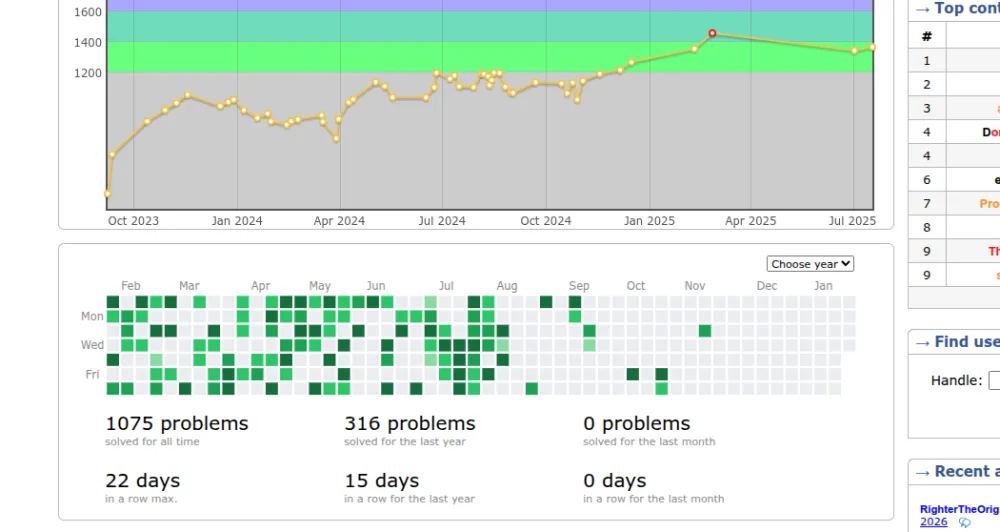
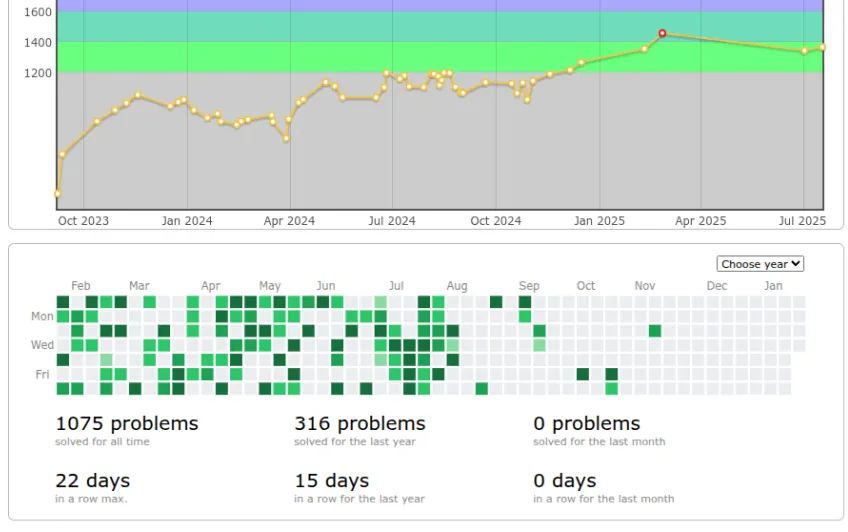
Surface GitHub activity and refine About page layout
Per-project commit counts were gated behind a hover media query, so they
never rendered on touch devices and needed a mouse on desktop. They are
now a permanent line under every project.

- Align featured card action rows on a shared baseline
- Frame every image so screenshots stop bleeding into either theme
- Make project titles the link; drop the duplicate cover tab stop
- Replace scattered scale hovers with one motion-safe hover language
- Left-align hero body copy on mobile and drop the section eyebrows
- Separate the secondary project list with rules under a group heading
- Centre the contribution graph and crop UI chrome from both screenshots
- Add themed ::selection and a site-wide :focus-visible ring

diff --git a/Frontend/src/Components/pages/About/About.jsx b/Frontend/src/Components/pages/About/About.jsx
@@ -53,8 +53,11 @@ function ProjectActivity({ activity }) {
     const commitLabel = activity.commits === 1 ? 'commit' : 'commits';
 
     return (
-        <p className="project-activity font-interface text-xs text-(--text-secondary)">
-            {activity.commits.toLocaleString()} authored {commitLabel}
+        <p className="project-activity font-interface mt-2 text-xs leading-relaxed tracking-wide text-(--text-secondary) tabular-nums">
+            <span className="font-semibold text-(--text-primary)">
+                {activity.commits.toLocaleString()}
+            </span>{' '}
+            authored {commitLabel}
             {lastActivity && <> · last activity {lastActivity}</>}
         </p>
     );
@@ -62,23 +65,30 @@ function ProjectActivity({ activity }) {
 
 function ProjectDetails({ project, activity }) {
     return (
-        <div>
-            <h3 className="text-xl font-bold leading-tight">
-                {project.name}
+        <div className="flex grow flex-col">
+            <h3 className="text-xl font-bold leading-tight text-pretty">
+                <a
+                    href={project.live ?? project.repo}
+                    target="_blank"
+                    rel="noopener noreferrer"
+                    className="transition-colors group-hover:text-(--accent)"
+                >
+                    {project.name}
+                </a>
                 {project.teamNote && (
                     <span className="font-interface ml-2 text-sm font-normal text-(--text-secondary)">
                         — {project.teamNote}
                     </span>
                 )}
             </h3>
-            <p className="mt-2 leading-relaxed text-(--text-secondary)">{project.tagline}</p>
+            <p className="mt-2 leading-relaxed text-pretty text-(--text-secondary)">{project.tagline}</p>
             <p className="font-interface mt-3 text-xs leading-relaxed tracking-wide text-(--text-secondary)">
                 {project.stack.join(' · ')}
             </p>
-            <div className="mt-3">
+            <ProjectActivity activity={activity} />
+            <div className="mt-auto pt-4">
                 <ProjectLinks project={project} />
             </div>
-            <ProjectActivity activity={activity} />
         </div>
     );
 }
@@ -136,24 +146,21 @@ export default function About() {
                         />
                     </div>
 
-                    <div className="max-w-2xl text-center md:text-left">
-                        <p className="font-interface mb-3 text-sm font-semibold uppercase tracking-[0.18em] text-(--text-primary)">
-                            About
-                        </p>
-                        <h1 id="about-heading" className="text-4xl font-bold leading-tight sm:text-5xl">
+                    <div className="w-full max-w-2xl">
+                        <h1 id="about-heading" className="text-4xl font-bold leading-tight text-balance sm:text-5xl">
                             Hi, I’m <span className="text-(--accent)">Mowafak</span>.
                         </h1>
-                        <p className="mt-6 text-lg leading-relaxed text-(--text-secondary)">
+                        <p className="mt-6 text-lg leading-relaxed text-pretty text-(--text-secondary)">
                             I built this blog to document my journey in software engineering. I completed{' '}
                             <span className="font-semibold text-(--text-primary)">The Odin Project</span> curriculum,
                             where I created more than 20 full-stack projects. I recently joined{' '}
                             <span className="font-semibold text-(--text-primary)">SYNC</span>, and I’m currently working
                             with its software engineering team.
                         </p>
-                        <p className="mt-4 text-lg leading-relaxed text-(--text-secondary)">
+                        <p className="mt-4 text-lg leading-relaxed text-pretty text-(--text-secondary)">
                             I work with React, TypeScript, and Python, with a focus on practical AI integrations.
                         </p>
-                        <p className="mt-4 text-lg leading-relaxed text-(--text-secondary)">
+                        <p className="mt-4 text-lg leading-relaxed text-pretty text-(--text-secondary)">
                             I love problem-solving! I reached{' '}
                             <strong className="codeforces-rank">Specialist</strong> on Codeforces and participated
                             in the ECPC programming contest (solving 6/13 problems). I am currently pursuing the
@@ -170,25 +177,26 @@ export default function About() {
 
                 <div className="grid grid-cols-1 gap-x-7 gap-y-14 sm:grid-cols-2 lg:grid-cols-3">
                     {featuredProjects.map((project) => (
-                        <article
-                            key={project.slug}
-                            className="project-entry relative transition-transform duration-300 hover:scale-[1.02]"
-                        >
-                            <a
-                                href={project.live}
-                                target="_blank"
-                                rel="noopener noreferrer"
-                                aria-label={`Open ${project.name}`}
-                            >
-                                <img
-                                    src={project.cover}
-                                    alt={project.coverAlt}
-                                    width={project.coverWidth}
-                                    height={project.coverHeight}
-                                    className="aspect-video w-full rounded-lg object-cover"
-                                />
-                            </a>
-                            <div className="mt-5">
+                        <article key={project.slug} className="group flex flex-col">
+                            <div className="overflow-hidden rounded-lg border border-(--border-color) transition-colors duration-300 group-hover:border-(--accent)">
+                                <a
+                                    href={project.live}
+                                    target="_blank"
+                                    rel="noopener noreferrer"
+                                    tabIndex={-1}
+                                    aria-hidden="true"
+                                    className="block"
+                                >
+                                    <img
+                                        src={project.cover}
+                                        alt={project.coverAlt}
+                                        width={project.coverWidth}
+                                        height={project.coverHeight}
+                                        className="aspect-video w-full object-cover motion-safe:transition-transform motion-safe:duration-500 group-hover:scale-[1.03] group-focus-within:scale-[1.03]"
+                                    />
+                                </a>
+                            </div>
+                            <div className="mt-5 flex grow flex-col">
                                 <ProjectDetails
                                     project={project}
                                     activity={activityBySlug.get(project.slug)}
@@ -198,30 +206,36 @@ export default function About() {
                     ))}
                 </div>
 
-                <div className="mt-16 max-w-3xl space-y-9 sm:mt-20">
-                    {listedProjects.map((project) => (
-                        <article
-                            key={project.slug}
-                            className="project-entry relative transition-transform duration-300 hover:scale-[1.02]"
-                        >
-                            <ProjectDetails
-                                project={project}
-                                activity={activityBySlug.get(project.slug)}
-                            />
-                        </article>
-                    ))}
+                <div className="mt-16 max-w-3xl sm:mt-20">
+                    <h3 className="font-interface text-sm font-semibold text-(--text-secondary)">More projects</h3>
+                    <div className="mt-6">
+                        {listedProjects.map((project) => (
+                            <article
+                                key={project.slug}
+                                className="group border-t border-(--border-color) py-8 last:border-b"
+                            >
+                                <ProjectDetails
+                                    project={project}
+                                    activity={activityBySlug.get(project.slug)}
+                                />
+                            </article>
+                        ))}
+                    </div>
                 </div>
 
-                <div className="mt-16 max-w-4xl">
+                <div className="mx-auto mt-16 max-w-4xl">
                     {githubActivity && (
-                        <p className="font-interface max-w-3xl text-sm leading-relaxed text-(--text-secondary)">
+                        <p className="project-activity font-interface mb-6 max-w-3xl leading-relaxed text-(--text-secondary) tabular-nums">
                             Across these {githubActivity.projects.length} projects, I’ve authored{' '}
-                            {githubActivity.totalCommits.toLocaleString()} commits, according to{' '}
+                            <span className="font-semibold text-(--text-primary)">
+                                {githubActivity.totalCommits.toLocaleString()}
+                            </span>{' '}
+                            commits, according to{' '}
                             <a
                                 href="https://github.com/SuperMo0"
                                 target="_blank"
                                 rel="noopener noreferrer"
-                                className="text-(--text-primary) transition-colors hover:text-(--accent)"
+                                className="text-(--text-primary) underline decoration-(--border-color) underline-offset-4 transition-colors hover:text-(--accent) hover:decoration-(--accent)"
                             >
                                 GitHub
                             </a>.
@@ -231,14 +245,15 @@ export default function About() {
                         href="https://github.com/SuperMo0"
                         target="_blank"
                         rel="noopener noreferrer"
-                        className="mt-8 block transition-transform duration-300 hover:scale-[1.02]"
+                        aria-label="Mowafak Almahaini’s GitHub profile"
+                        className="block overflow-hidden rounded-lg border border-(--border-color) transition-colors duration-300 hover:border-(--accent)"
                     >
                         <img
                             src="/images/github-contributions.webp"
                             alt="Mowafak Almahaini's GitHub contribution history and activity overview"
-                            width="965"
-                            height="584"
-                            className="w-full rounded-lg"
+                            width="775"
+                            height="555"
+                            className="w-full"
                             loading="lazy"
                         />
                     </a>
@@ -252,23 +267,23 @@ export default function About() {
                     </h2>
                 </div>
 
-                <div className="grid items-start gap-10 lg:grid-cols-[minmax(0,1fr)_minmax(0,1.35fr)] lg:gap-14">
+                <div className="grid items-start gap-10 lg:grid-cols-[minmax(0,1fr)_minmax(0,1.15fr)] lg:gap-14">
                     <ol className="space-y-7">
-                        <li className="grid grid-cols-[4rem_1fr] gap-4">
-                            <time className="font-interface text-sm font-semibold text-(--text-secondary)">2026</time>
-                            <p className="leading-relaxed">Official ICPC coach for six teams preparing for ICPC 2026.</p>
+                        <li className="grid grid-cols-[3.5rem_1fr] gap-x-5">
+                            <time dateTime="2026" className="font-interface text-sm font-semibold text-(--text-secondary) tabular-nums">2026</time>
+                            <p className="leading-relaxed text-pretty">Official ICPC coach for six teams preparing for ICPC 2026.</p>
                         </li>
-                        <li className="grid grid-cols-[4rem_1fr] gap-4">
-                            <time className="font-interface text-sm font-semibold text-(--text-secondary)">2025</time>
-                            <p className="leading-relaxed">First place in the Nile University Competitive Programming Arena.</p>
+                        <li className="grid grid-cols-[3.5rem_1fr] gap-x-5">
+                            <time dateTime="2025" className="font-interface text-sm font-semibold text-(--text-secondary) tabular-nums">2025</time>
+                            <p className="leading-relaxed text-pretty">First place in the Nile University Competitive Programming Arena.</p>
                         </li>
-                        <li className="grid grid-cols-[4rem_1fr] gap-4">
-                            <time className="font-interface text-sm font-semibold text-(--text-secondary)">2025</time>
-                            <p className="leading-relaxed">ECPC: 129th of 1,734 participants and fourth among 80+ university teams.</p>
+                        <li className="grid grid-cols-[3.5rem_1fr] gap-x-5">
+                            <time dateTime="2025" className="font-interface text-sm font-semibold text-(--text-secondary) tabular-nums">2025</time>
+                            <p className="leading-relaxed text-pretty">ECPC: 129th of 1,734 participants and fourth among 80+ university teams.</p>
                         </li>
-                        <li className="grid grid-cols-[4rem_1fr] gap-4">
+                        <li className="grid grid-cols-[3.5rem_1fr] gap-x-5">
                             <span className="font-interface text-sm font-semibold text-(--text-secondary)">Peak</span>
-                            <p className="leading-relaxed">
+                            <p className="leading-relaxed text-pretty">
                                 Codeforces <strong className="codeforces-rank">Specialist</strong> after 50+ contests.
                             </p>
                         </li>
@@ -278,14 +293,15 @@ export default function About() {
                         href="https://codeforces.com/profile/SuperMo"
                         target="_blank"
                         rel="noopener noreferrer"
-                        className="block transition-transform duration-300 hover:scale-[1.02]"
+                        aria-label="Mowafak Almahaini’s Codeforces profile"
+                        className="block overflow-hidden rounded-lg border border-(--border-color) transition-colors duration-300 hover:border-(--accent)"
                     >
                         <img
                             src="/images/codeforces.webp"
                             alt="Mowafak Almahaini's Codeforces problem-solving history"
-                            width="1000"
+                            width="848"
                             height="532"
-                            className="w-full rounded-lg"
+                            className="w-full"
                             loading="lazy"
                         />
                     </a>
@@ -294,9 +310,6 @@ export default function About() {
 
             <section id="social" aria-labelledby="social-heading" className="scroll-mt-24 pt-24 sm:pt-28">
                 <div className="text-center">
-                    <p className="font-interface mb-3 text-sm font-semibold uppercase tracking-[0.18em] text-(--text-primary)">
-                        Find me online
-                    </p>
                     <h2 id="social-heading" className="text-3xl font-bold sm:text-4xl">Let’s connect</h2>
                 </div>
 

diff --git a/Frontend/src/index.css b/Frontend/src/index.css
@@ -40,6 +40,28 @@
       scroll-behavior: smooth;
     }
   }
+
+  ::selection {
+    background-color: color-mix(in oklab, var(--accent) 25%, transparent);
+    color: var(--text-primary);
+  }
+
+  :focus-visible {
+    outline: 2px solid var(--accent);
+    outline-offset: 3px;
+  }
+}
+
+@keyframes project-activity-in {
+  from {
+    opacity: 0;
+    transform: translateY(0.25rem);
+  }
+
+  to {
+    opacity: 1;
+    transform: none;
+  }
 }
 
 @layer components {
@@ -126,28 +148,14 @@
     color: #67e8f9;
   }
 
+  /* Live GitHub figures arrive after first paint; ease them in rather than popping. */
   .project-activity {
-    display: none;
+    animation: project-activity-in 400ms cubic-bezier(0.16, 1, 0.3, 1) both;
   }
 
-  @media (hover: hover) and (pointer: fine) {
+  @media (prefers-reduced-motion: reduce) {
     .project-activity {
-      display: block;
-      position: absolute;
-      top: calc(100% + 0.375rem);
-      left: 0;
-      width: max-content;
-      max-width: 100%;
-      opacity: 0;
-      pointer-events: none;
-      transform: translateY(-0.25rem);
-      transition: opacity 160ms ease, transform 160ms ease;
-    }
-
-    .project-entry:hover .project-activity,
-    .project-entry:focus-within .project-activity {
-      opacity: 1;
-      transform: translateY(0);
+      animation: none;
     }
   }
 }
